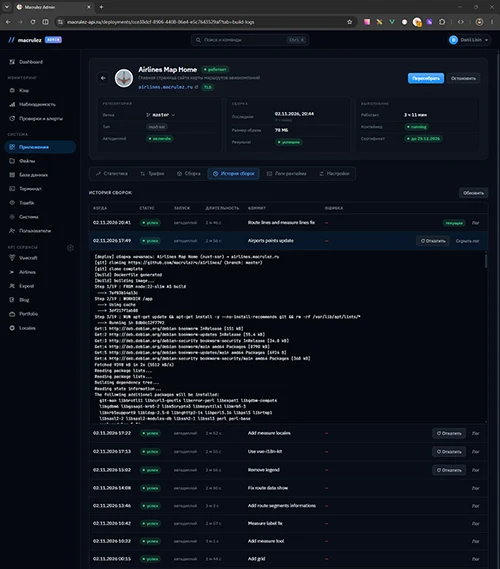
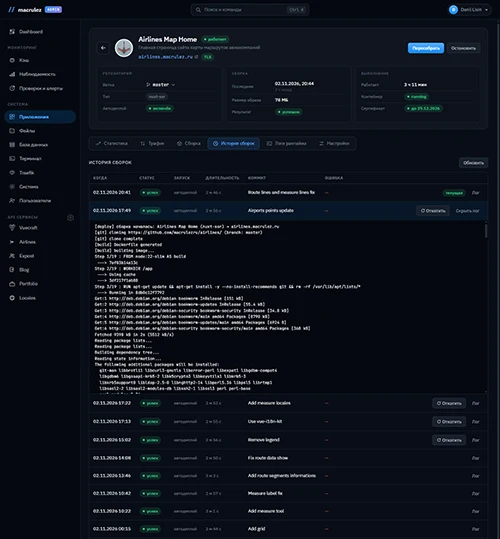
New slider

diff --git a/src/view/ui/ui-carousel/ui-carousel.vue b/src/view/ui/ui-carousel/ui-carousel.vue
@@ -1,0 +1,77 @@
+<script setup lang="ts">
+  import 'swiper/css';
+  import 'swiper/css/pagination';
+  import './ui-carousel.scss';
+
+  import { Pagination } from 'swiper/modules';
+  import { Swiper, SwiperSlide } from 'swiper/vue';
+  import { computed, onMounted } from 'vue';
+
+  import { type Slide } from './types';
+
+  interface Props {
+    slides: Slide[];
+    closable?: boolean;
+    maxHeight?: number;
+  }
+
+  interface Emits {
+    (e: 'slide-click', index: string | number): void;
+    (e: 'close'): void;
+  }
+
+  const props = defineProps<Props>();
+  const emit = defineEmits<Emits>();
+
+  const modules = [Pagination];
+
+  const onSwiper = swiper => {
+    console.log(swiper);
+  };
+
+  const styles = computed(() => {
+    const result: Record<string, string> = {};
+    if (props.maxHeight) {
+      result['--ui-carousel-max-height'] = `${props.maxHeight}px`;
+    }
+    return result;
+  });
+
+  const handleImageClick = (index: string | number) => {
+    emit('slide-click', index);
+  };
+
+  const onClose = () => {
+    emit('close');
+  };
+</script>
+<template>
+  <div class="ui-carousel" :style="styles">
+    <span v-if="props.closable" class="ui-carousel__close-btn" @click="onClose" />
+    <swiper
+      class="ui-carousel__swiper"
+      :slidesPerView="'auto'"
+      :spaceBetween="0"
+      :centeredSlides="true"
+      :modules="modules"
+      :pagination="{
+        clickable: true,
+      }"
+      @swiper="onSwiper"
+    >
+      <swiper-slide v-for="(item, index) in props.slides" :key="index">
+        <div class="ui-carousel__slide">
+          <img
+            :src="item.image"
+            :alt="item.description || `slide-${index}`"
+            class="ui-carousel__image"
+            draggable="false"
+            role="button"
+            :tabindex="index"
+            @click="handleImageClick(index)"
+          />
+        </div>
+      </swiper-slide>
+    </swiper>
+  </div>
+</template>

diff --git a/src/view/ui/ui-carousel/ui-carousel.scss b/src/view/ui/ui-carousel/ui-carousel.scss
@@ -1,0 +1,79 @@
+.ui-carousel {
+  --swiper-pagination-color: var(--color-2);
+  --swiper-pagination-bullet-inactive-color: var(--color-8);
+
+  width: 100%;
+  min-width: 0;
+  user-select: none;
+
+  &__swiper {
+    flex: 1; // если .ui-carousel flex-контейнер
+    height: 100%; // если нужно просто 100% от родителя
+
+    .swiper-wrapper {
+      align-items: stretch;
+      padding: 50px 0;
+    }
+
+    .swiper-slide {
+      display: flex;
+      justify-content: center;
+      align-items: center;
+      width: fit-content !important;
+      height: auto;
+      align-self: stretch;
+    }
+  }
+
+  &__slide {
+    padding: 0 20px;
+    height: 100%;
+    display: flex;
+    justify-content: center;
+    align-items: center;
+  }
+
+  &__image {
+    display: block;
+    width: auto;
+    max-width: 90vw;
+    height: auto;
+    max-height: var(--ui-carousel-max-height, none);
+    border-radius: var(--radius-lg);
+    filter: drop-shadow(0 0 12px rgb(0 0 0 / 20%));
+  }
+
+  &__close-btn {
+    position: absolute;
+    top: 0;
+    right: 16px;
+    width: 26px;
+    height: 26px;
+    border: solid 1px var(--color-8);
+    border-radius: 59%;
+    background-color: transparent;
+    cursor: pointer;
+    z-index: 20;
+    transition: all 0.3s ease;
+
+    &::before {
+      content: '';
+      position: absolute;
+      inset: 2px;
+      mask-image: url('@/view/assets/images/icon-close.svg');
+      mask-repeat: no-repeat;
+      mask-position: center center;
+      mask-size: contain;
+      background-color: var(--color-8);
+      transition: background-color 0.3s ease;
+    }
+
+    &:hover {
+      border-color: var(--color-5);
+
+      &::before {
+        background-color: var(--color-5);
+      }
+    }
+  }
+}

diff --git a/src/view/components/travelshop-project/parts/travelshop-images/travelshop-images.vue b/src/view/components/travelshop-project/parts/travelshop-images/travelshop-images.vue
@@ -1,9 +1,12 @@
 <script setup lang="ts">
   import '@/view/components/travelshop-project/parts/travelshop-images/travelshop-images.scss';
 
+  import { computed } from 'vue';
+
   import { useFancybox } from '@/view/composables/use-fancybox';
   import { useTravelshopImages } from '@/view/composables/use-travelshop-images.ts';
-  import UiSwiper from '@/view/ui/ui-swiper/ui-swiper.vue';
+  import { type Slides } from '@/view/ui/ui-carousel/types';
+  import UiCarousel from '@/view/ui/ui-carousel/ui-carousel.vue';
 
   const { images } = useTravelshopImages();
   const { openGallery } = useFancybox();
@@ -13,6 +16,15 @@
   }
 
   const emit = defineEmits<Emits>();
+
+  const slides = computed((): Slides => {
+    return images.value.map(item => {
+      return {
+        image: item.preview,
+        description: item.preview || null,
+      };
+    });
+  });
 
   const openModal = (index: number) => {
     openGallery(images.value, index);
@@ -26,12 +38,7 @@
 <template>
   <Transition name="content-appear" appear>
     <div class="travelshop-images">
-      <UiSwiper
-        showCloseButton
-        :slides="images"
-        @slide-click="openModal"
-        @close="onClose"
-      />
+      <UiCarousel :slides="slides" closable @slide-click="openModal" @close="onClose" />
     </div>
   </Transition>
 </template>

diff --git a/src/view/components/app-platform/app-platform.vue b/src/view/components/app-platform/app-platform.vue
@@ -1,9 +1,12 @@
 <script setup lang="ts">
   import '@/view/components/app-platform/app-platform.scss';
 
+  import { computed } from 'vue';
+
   import { useAppPlatformImages } from '@/view/composables/use-app-platform-images.ts';
   import { useFancybox } from '@/view/composables/use-fancybox';
-  import UiSwiper from '@/view/ui/ui-swiper/ui-swiper.vue';
+  import { type Slides } from '@/view/ui/ui-carousel/types';
+  import UiCarousel from '@/view/ui/ui-carousel/ui-carousel.vue';
 
   const { images } = useAppPlatformImages();
   const { openGallery } = useFancybox();
@@ -13,6 +16,15 @@
   }
 
   const emit = defineEmits<Emits>();
+
+  const slides = computed((): Slides => {
+    return images.value.map(item => {
+      return {
+        image: item.preview,
+        description: item.preview || null,
+      };
+    });
+  });
 
   const openModal = (index: number) => {
     openGallery(images.value, index);
@@ -26,10 +38,10 @@
 <template>
   <Transition name="content-appear" appear>
     <div class="app-platform">
-      <UiSwiper
-        showCloseButton
-        :slides="images"
-        :maxHeight="600"
+      <UiCarousel
+        :slides="slides"
+        :max-height="650"
+        closable
         @slide-click="openModal"
         @close="onClose"
       />

diff --git a/src/view/components/rest-api/rest-api.vue b/src/view/components/rest-api/rest-api.vue
@@ -1,9 +1,12 @@
 <script setup lang="ts">
   import '@/view/components/rest-api/rest-api.scss';
 
+  import { computed } from 'vue';
+
   import { useFancybox } from '@/view/composables/use-fancybox';
   import { useRestApiImages } from '@/view/composables/use-rest-api-images.ts';
-  import UiSwiper from '@/view/ui/ui-swiper/ui-swiper.vue';
+  import { type Slides } from '@/view/ui/ui-carousel/types';
+  import UiCarousel from '@/view/ui/ui-carousel/ui-carousel.vue';
 
   const { images } = useRestApiImages();
   const { openGallery } = useFancybox();
@@ -13,6 +16,15 @@
   }
 
   const emit = defineEmits<Emits>();
+
+  const slides = computed((): Slides => {
+    return images.value.map(item => {
+      return {
+        image: item.preview,
+        description: item.preview || null,
+      };
+    });
+  });
 
   const openModal = (index: number) => {
     openGallery(images.value, index);
@@ -26,10 +38,10 @@
 <template>
   <Transition name="content-appear" appear>
     <div class="rest-api">
-      <UiSwiper
-        showCloseButton
-        :slides="images"
-        :maxHeight="600"
+      <UiCarousel
+        :slides="slides"
+        :max-height="650"
+        closable
         @slide-click="openModal"
         @close="onClose"
       />

diff --git a/src/view/components/travelshop-project/travelshop-project.vue b/src/view/components/travelshop-project/travelshop-project.vue
@@ -280,15 +280,15 @@
         >
           <Button :text="t('travelshop.view_screenshots')" @click="toggleSwiper" />
         </div>
-        <div v-if="showSwiper" class="travelshop__section travelshop__section_images">
-          <div class="travelshop__ts-slideshow">
-            <TravelshopImages
-              size="large"
-              :textKey="t('travelshop.loading_screenshots')"
-              @close="showSwiper = false"
-            />
-          </div>
-        </div>
+      </div>
+    </div>
+    <div v-if="showSwiper" class="travelshop__section travelshop__section_images">
+      <div class="travelshop__ts-slideshow">
+        <TravelshopImages
+          size="large"
+          :textKey="t('travelshop.loading_screenshots')"
+          @close="showSwiper = false"
+        />
       </div>
     </div>
   </div>

diff --git a/src/view/composables/use-travelshop-images.ts b/src/view/composables/use-travelshop-images.ts
@@ -10,10 +10,13 @@ import {
 export const useTravelshopImages = () => {
   const { t } = useI18n();
 
-  const imageModules = import.meta.glob('@/view/assets/images/travelshop/*.{jpg,jpeg,png,webp}', {
-    eager: true,
-    import: 'default',
-  }) as Record<string, string>;
+  const imageModules = import.meta.glob(
+    '@/view/assets/images/travelshop/*.{jpg,jpeg,png,webp}',
+    {
+      eager: true,
+      import: 'default',
+    },
+  ) as Record<string, string>;
 
   const imageUrlByName: Record<string, string> = Object.fromEntries(
     Object.entries(imageModules).map(([path, url]) => {

diff --git a/src/view/components/travelshop-project/parts/travelshop-images/travelshop-images.scss b/src/view/components/travelshop-project/parts/travelshop-images/travelshop-images.scss
@@ -1,6 +1,4 @@
 .travelshop-images {
-  width: 100%;
-  max-width: 920px;
-  margin: 0 auto;
   position: relative;
+  padding: 40px 0;
 }

diff --git a/src/view/ui/ui-carousel/types.ts b/src/view/ui/ui-carousel/types.ts
@@ -1,0 +1,6 @@
+export interface Slide {
+  image: string;
+  description?: string | null;
+}
+
+export type Slides = Slide[];

diff --git a/src/view/components/app-platform/app-platform.scss b/src/view/components/app-platform/app-platform.scss
@@ -1,6 +1,4 @@
 .app-platform {
   width: 100%;
-  max-width: 920px;
-  margin: 0 auto;
   position: relative;
 }

diff --git a/src/view/components/rest-api/rest-api.scss b/src/view/components/rest-api/rest-api.scss
@@ -1,6 +1,4 @@
 .rest-api {
   width: 100%;
-  max-width: 920px;
-  margin: 0 auto;
   position: relative;
 }
